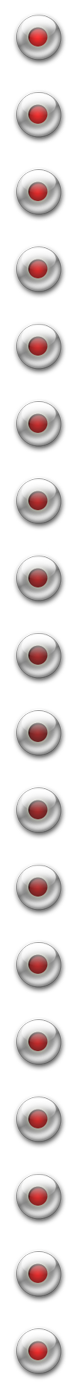
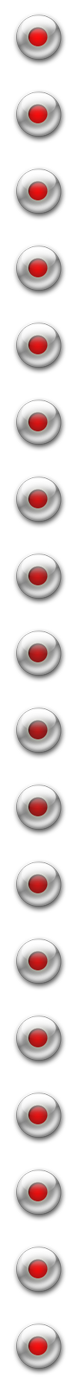
Platform specific adjustments

diff --git a/QtDrumkit/qml/symbian/main.qml b/QtDrumkit/qml/symbian/main.qml
@@ -40,7 +40,7 @@ Item {
         AnimButton {
             animation: "gfx/recording.png"
             imagePressed: "gfx/record_pressed.png"
-            frameCount: 20
+            frameCount: 18
             width: 77
             height: 77
             visible: !recButton.visible

diff --git a/QtDrumkit/main.cpp b/QtDrumkit/main.cpp
@@ -11,16 +11,17 @@
 int main(int argc, char *argv[])
 {
     QApplication app(argc, argv);
-    //DrumEngine drumEngine;
 
     qmlRegisterType<DrumEngine>("DrumEngine", 1,0, "DrumEngine");
 
     QmlApplicationViewer viewer;
     viewer.setOrientation(QmlApplicationViewer::ScreenOrientationLockLandscape);
-    viewer.setMainQmlFile(QLatin1String("qml/QtDrumkit/main.qml"));
-//    QDeclarativeContext* ctx = viewer.rootContext();
-//    ctx->setContextProperty("DrumEngine", &drumEngine);
-
+    //viewer.setMainQmlFile(QLatin1String("qml/QtDrumkit/main.qml"));
+#ifdef Q_OS_SYMBIAN
+    viewer.setMainQmlFile(QLatin1String("qml/symbian/main.qml"));
+#else
+    viewer.setMainQmlFile(QLatin1String("qml/harmattan/main.qml"));
+#endif
 
 
 // #if defined(Q_WS_MAEMO_5) || defined(Q_OS_SYMBIAN) || defined(Q_WS_HARMATTAN)
